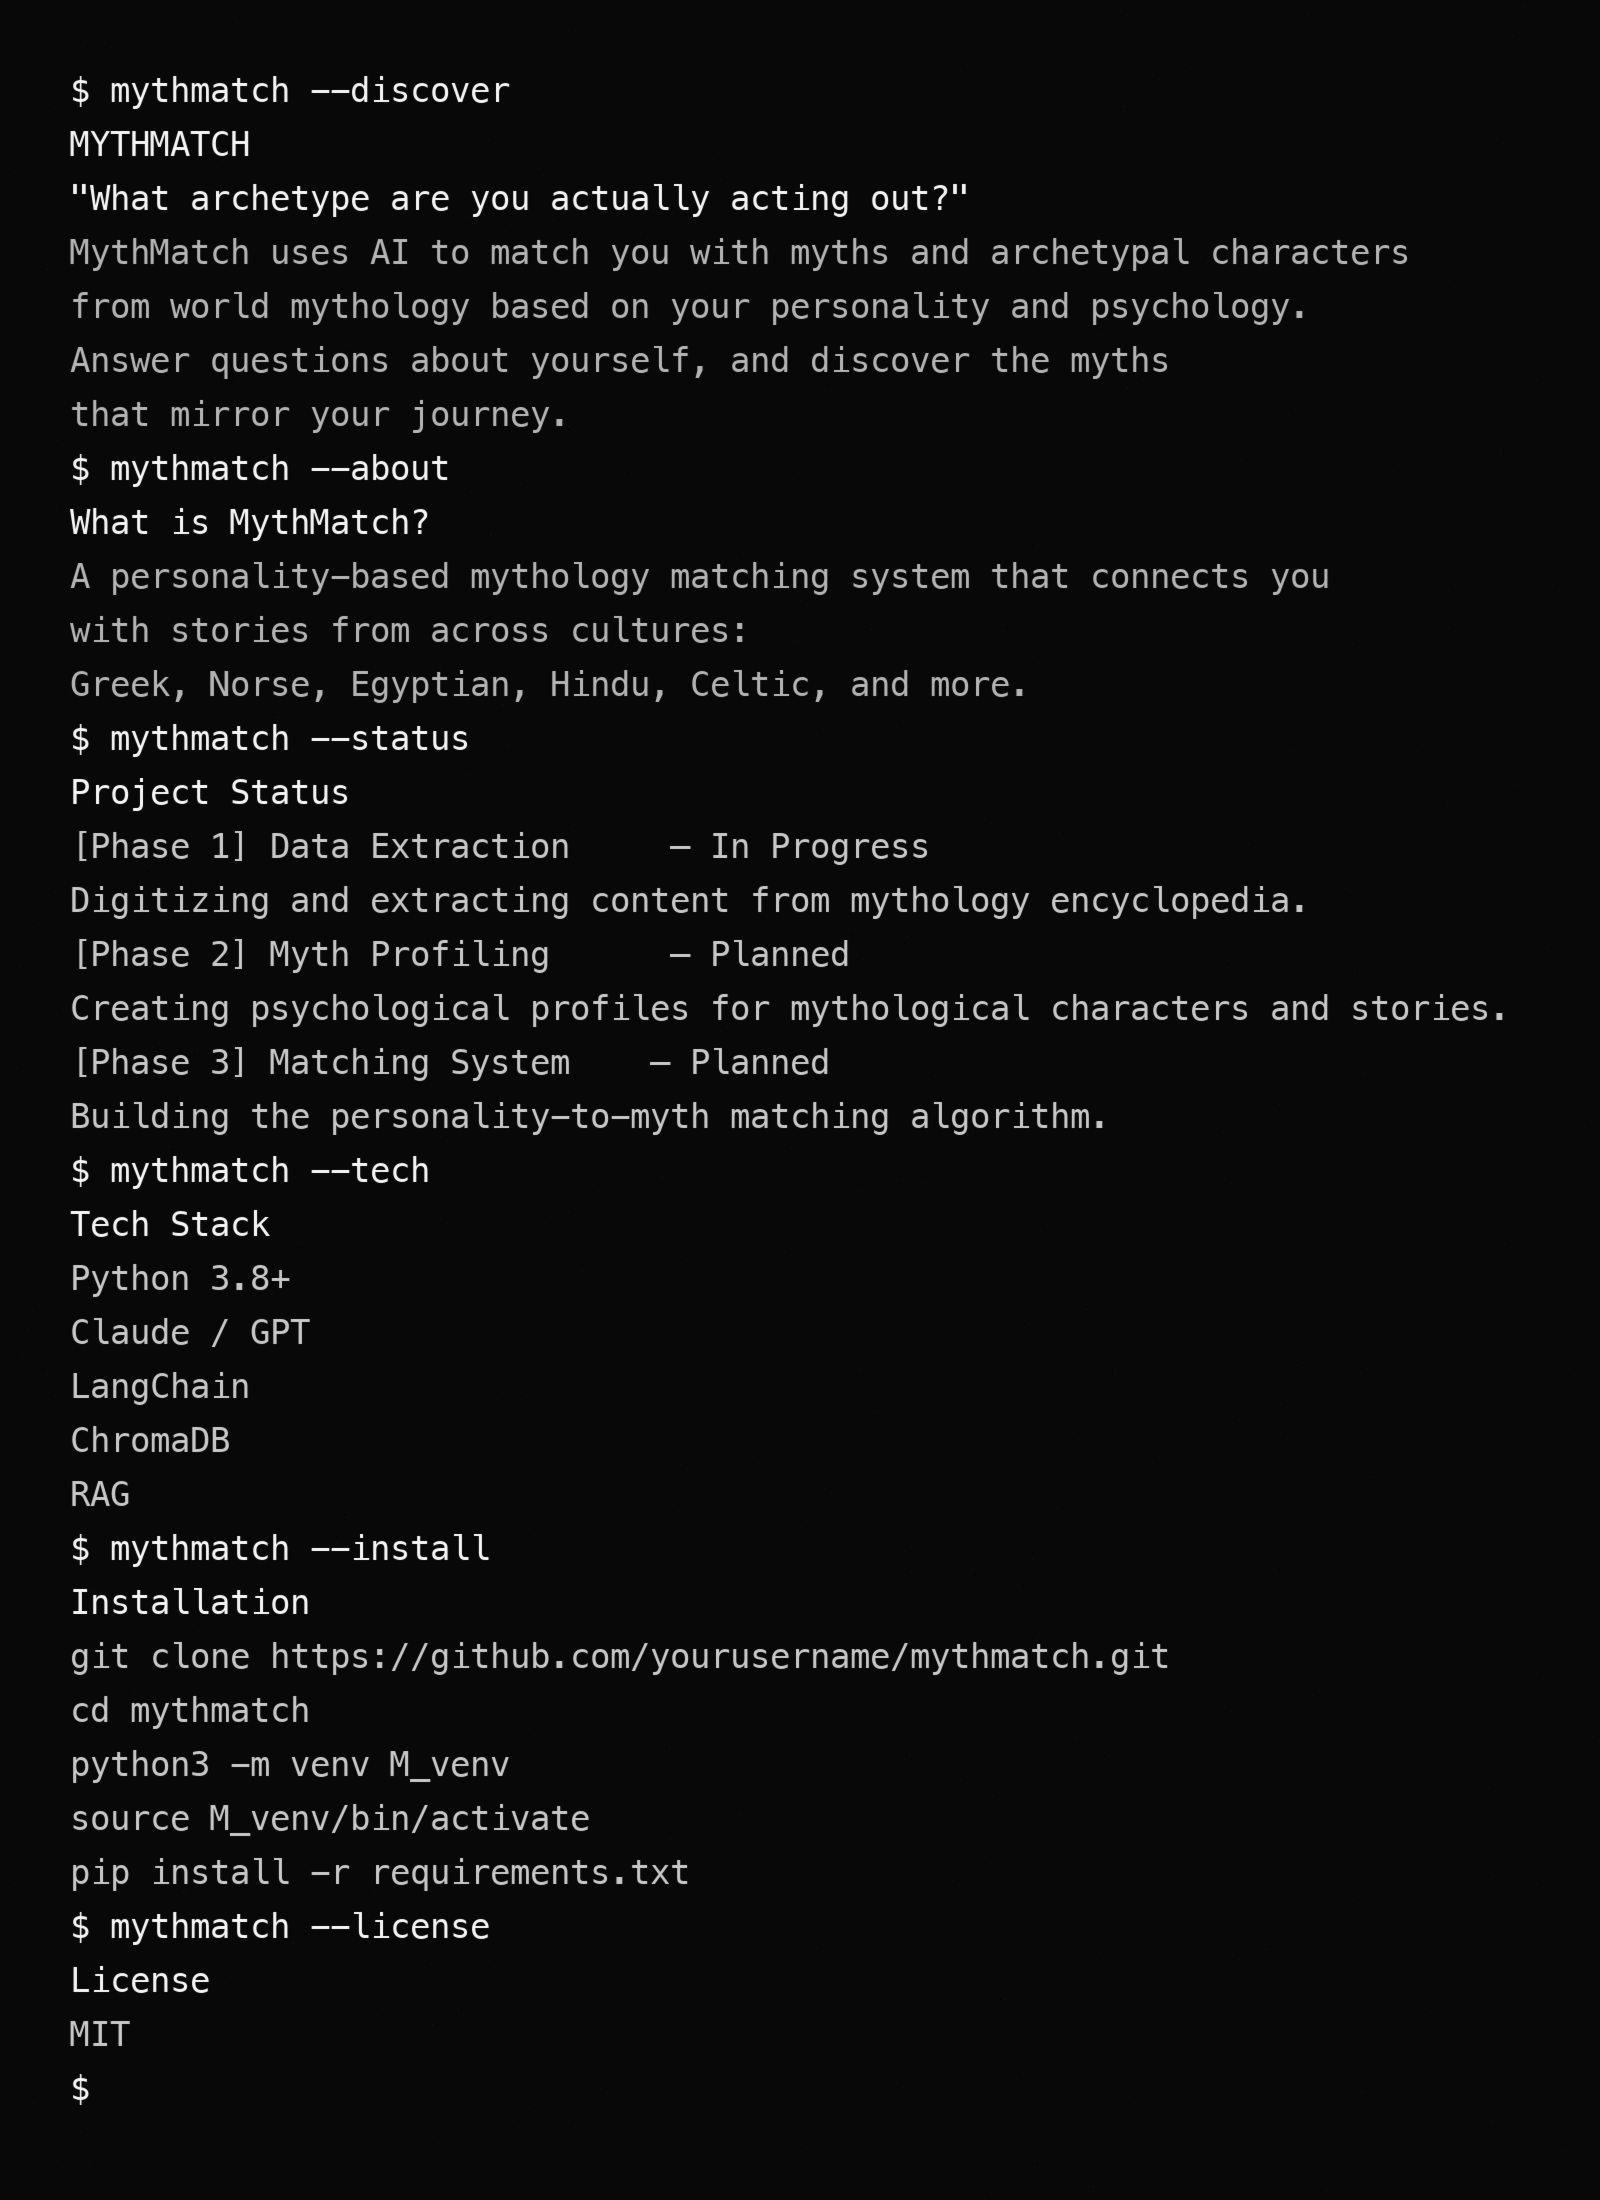
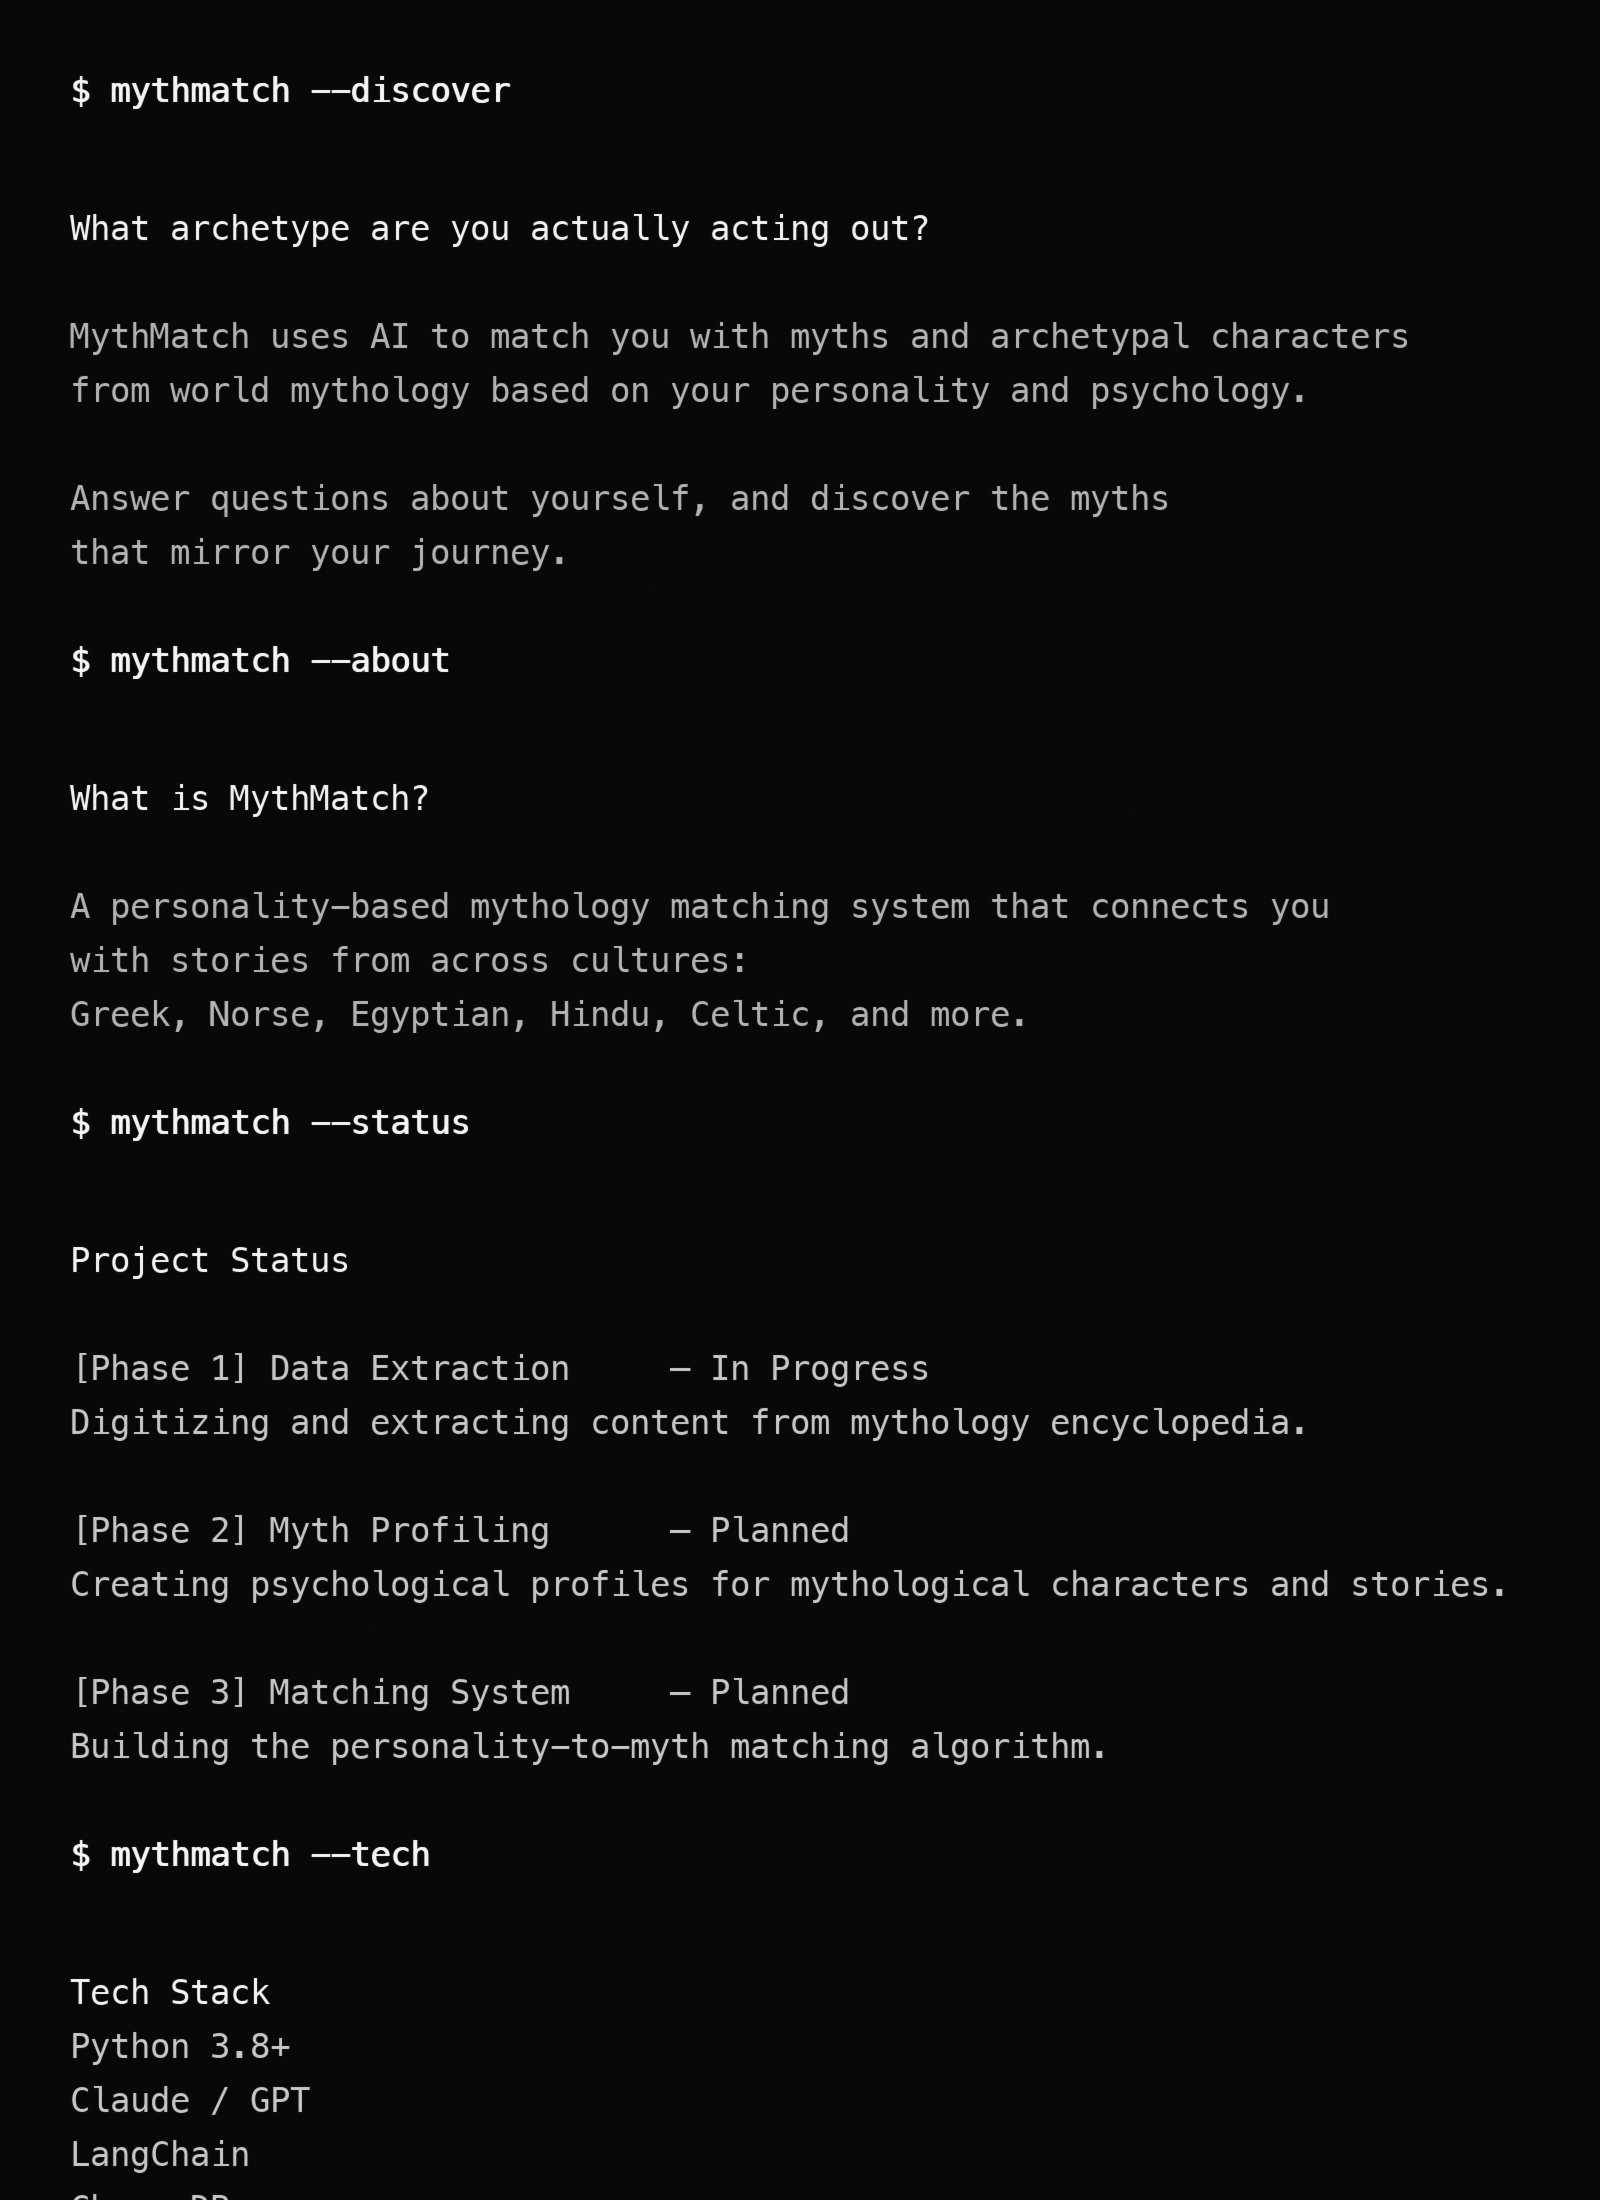
Polish terminal README

diff --git a/scripts/make_readme_terminal_image.py b/scripts/make_readme_terminal_image.py
@@ -28,90 +28,98 @@ def load_font(size: int):
 FONT_SIZE = 34
 FONT = load_font(FONT_SIZE)
 
+def load_bold_font(size: int):
+    candidates = [
+        "/System/Library/Fonts/Menlo-Bold.ttc",
+        "/System/Library/Fonts/Monaco.ttf",  # Monaco is heavier by default
+    ]
+    for p in candidates:
+        if os.path.exists(p):
+            return ImageFont.truetype(p, size)
+    return FONT
+
+BOLD_FONT = load_bold_font(FONT_SIZE)
+
 # ---------- CONTENT ----------
 now = datetime.datetime.now()
 last_login = now.strftime("Last login: %a %b %d %H:%M:%S on console")
 
-# You can edit these lines to match your exact vibe.
+# Use (text, color, style). style: "normal" or "command"
 lines = [
-    ("$ mythmatch --discover", FG),
-    ("", FG),
+    ("$ mythmatch --discover", FG, "command"),
+    ("", FG, "normal"),
 
-    ("MYTHMATCH", FG),
-    ("", FG),
+    ("What archetype are you actually acting out?", FG, "normal"),
+    ("", FG, "normal"),
 
-    ("\"What archetype are you actually acting out?\"", FG),
-    ("", FG),
+    ("MythMatch uses AI to match you with myths and archetypal characters", ACCENT, "normal"),
+    ("from world mythology based on your personality and psychology.", ACCENT, "normal"),
+    ("", FG, "normal"),
 
-    ("MythMatch uses AI to match you with myths and archetypal characters", ACCENT),
-    ("from world mythology based on your personality and psychology.", ACCENT),
-    ("", FG),
+    ("Answer questions about yourself, and discover the myths", ACCENT, "normal"),
+    ("that mirror your journey.", ACCENT, "normal"),
+    ("", FG, "normal"),
 
-    ("Answer questions about yourself, and discover the myths", ACCENT),
-    ("that mirror your journey.", ACCENT),
-    ("", FG),
+    ("$ mythmatch --about", FG, "command"),
+    ("", FG, "normal"),
 
-    ("$ mythmatch --about", FG),
-    ("", FG),
+    ("What is MythMatch?", FG, "normal"),
+    ("", FG, "normal"),
 
-    ("What is MythMatch?", FG),
-    ("", FG),
+    ("A personality-based mythology matching system that connects you", ACCENT, "normal"),
+    ("with stories from across cultures:", ACCENT, "normal"),
+    ("Greek, Norse, Egyptian, Hindu, Celtic, and more.", ACCENT, "normal"),
+    ("", FG, "normal"),
 
-    ("A personality-based mythology matching system that connects you", ACCENT),
-    ("with stories from across cultures:", ACCENT),
-    ("Greek, Norse, Egyptian, Hindu, Celtic, and more.", ACCENT),
-    ("", FG),
+    ("$ mythmatch --status", FG, "command"),
+    ("", FG, "normal"),
 
-    ("$ mythmatch --status", FG),
-    ("", FG),
+    ("Project Status", FG, "normal"),
+    ("", FG, "normal"),
 
-    ("Project Status", FG),
-    ("", FG),
+    ("[Phase 1] Data Extraction     — In Progress", DIM, "normal"),
+    ("Digitizing and extracting content from mythology encyclopedia.", DIM, "normal"),
+    ("", FG, "normal"),
 
-    ("[Phase 1] Data Extraction     — In Progress", DIM),
-    ("Digitizing and extracting content from mythology encyclopedia.", DIM),
-    ("", FG),
+    ("[Phase 2] Myth Profiling      — Planned", DIM, "normal"),
+    ("Creating psychological profiles for mythological characters and stories.", DIM, "normal"),
+    ("", FG, "normal"),
 
-    ("[Phase 2] Myth Profiling      — Planned", DIM),
-    ("Creating psychological profiles for mythological characters and stories.", DIM),
-    ("", FG),
+    ("[Phase 3] Matching System     — Planned", DIM, "normal"),
+    ("Building the personality-to-myth matching algorithm.", DIM, "normal"),
+    ("", FG, "normal"),
 
-    ("[Phase 3] Matching System    — Planned", DIM),
-    ("Building the personality-to-myth matching algorithm.", DIM),
-    ("", FG),
+    ("$ mythmatch --tech", FG, "command"),
+    ("", FG, "normal"),
 
-    ("$ mythmatch --tech", FG),
-    ("", FG),
+    ("Tech Stack", FG, "normal"),
+    ("Python 3.8+", DIM, "normal"),
+    ("Claude / GPT", DIM, "normal"),
+    ("LangChain", DIM, "normal"),
+    ("ChromaDB", DIM, "normal"),
+    ("RAG", DIM, "normal"),
+    ("", FG, "normal"),
 
-    ("Tech Stack", FG),
-    ("Python 3.8+", DIM),
-    ("Claude / GPT", DIM),
-    ("LangChain", DIM),
-    ("ChromaDB", DIM),
-    ("RAG", DIM),
-    ("", FG),
+    ("$ mythmatch --install", FG, "command"),
+    ("", FG, "normal"),
 
-    ("$ mythmatch --install", FG),
-    ("", FG),
+    ("Installation", FG, "normal"),
+    ("git clone https://github.com/yourusername/mythmatch.git", DIM, "normal"),
+    ("cd mythmatch", DIM, "normal"),
+    ("python3 -m venv M_venv", DIM, "normal"),
+    ("source M_venv/bin/activate", DIM, "normal"),
+    ("pip install -r requirements.txt", DIM, "normal"),
+    ("", FG, "normal"),
 
-    ("Installation", FG),
-    ("git clone https://github.com/yourusername/mythmatch.git", DIM),
-    ("cd mythmatch", DIM),
-    ("python3 -m venv M_venv", DIM),
-    ("source M_venv/bin/activate", DIM),
-    ("pip install -r requirements.txt", DIM),
-    ("", FG),
+    ("$ mythmatch --license", FG, "command"),
+    ("", FG, "normal"),
 
-    ("$ mythmatch --license", FG),
-    ("", FG),
+    ("License", FG, "normal"),
+    ("MIT", DIM, "normal"),
+    ("", FG, "normal"),
 
-    ("License", FG),
-    ("MIT", DIM),
-    ("", FG),
-
-    ("$ ", FG),
+    ("$ ", FG, "normal"),
 ]
-
 
 # ---------- RENDER ----------
 img = Image.new("RGB", (W, H), BG)
@@ -121,21 +129,45 @@ line_gap = int(FONT_SIZE * 0.60)
 y = PADDING_Y
 max_text_width = W - 2 * PADDING_X
 
-def draw_wrapped(text, color, y):
-    # wrap by pixel width using a rough character estimate
-    # (monospace makes this stable)
-    avg_char_w = draw.textbbox((0, 0), "M" * 10, font=FONT)[2] / 10
-    max_chars = max(10, int(max_text_width / avg_char_w))
-    for wrapped in textwrap.wrap(text, width=max_chars, replace_whitespace=False, drop_whitespace=False):
-        draw.text((PADDING_X, y), wrapped, fill=color, font=FONT)
-        y += FONT_SIZE + line_gap
-    return y
+def draw_wrapped(text, color, y, style="normal"):
+    """
+    Draw wrapped text at (PADDING_X, y). If style == "command",
+    draw in bold and add extra spacing after the line.
+    """
+    font = FONT
+    extra_spacing = 0
 
-for text, color in lines:
-    y = draw_wrapped(text, color, y)
+    if style == "command":
+        font = BOLD_FONT
+        extra_spacing = int(FONT_SIZE * 0.9)  # extra gap after command lines
+
+    # Empty line => just advance one line
+    if text.strip() == "":
+        return y + FONT_SIZE + line_gap + extra_spacing
+
+    avg_char_w = draw.textbbox((0, 0), "M" * 10, font=font)[2] / 10
+    max_chars = max(10, int(max_text_width / avg_char_w))
+
+    for wrapped in textwrap.wrap(
+        text,
+        width=max_chars,
+        replace_whitespace=False,
+        drop_whitespace=False
+    ):
+        # If bold font isn't available, fake bold by drawing twice with 1px offset
+        if style == "command" and font == FONT:
+            draw.text((PADDING_X, y), wrapped, fill=color, font=font)
+            draw.text((PADDING_X + 1, y), wrapped, fill=color, font=font)
+        else:
+            draw.text((PADDING_X, y), wrapped, fill=color, font=font)
+        y += FONT_SIZE + line_gap
+
+    return y + extra_spacing
+
+for text, color, style in lines:
+    y = draw_wrapped(text, color, y, style)
 
 # ---------- SUBTLE TERMINAL "SCREEN" EFFECT ----------
-# Light noise for realism
 px = img.load()
 noise_points = int(W * H * 0.0025)  # adjust up/down
 for _ in range(noise_points):
@@ -149,7 +181,6 @@ for _ in range(noise_points):
         max(0, min(255, b + jitter)),
     )
 
-# Very slight blur to mimic a screenshot (optional)
 img = img.filter(ImageFilter.GaussianBlur(radius=0.35))
 
 img.save(OUT_PATH)
